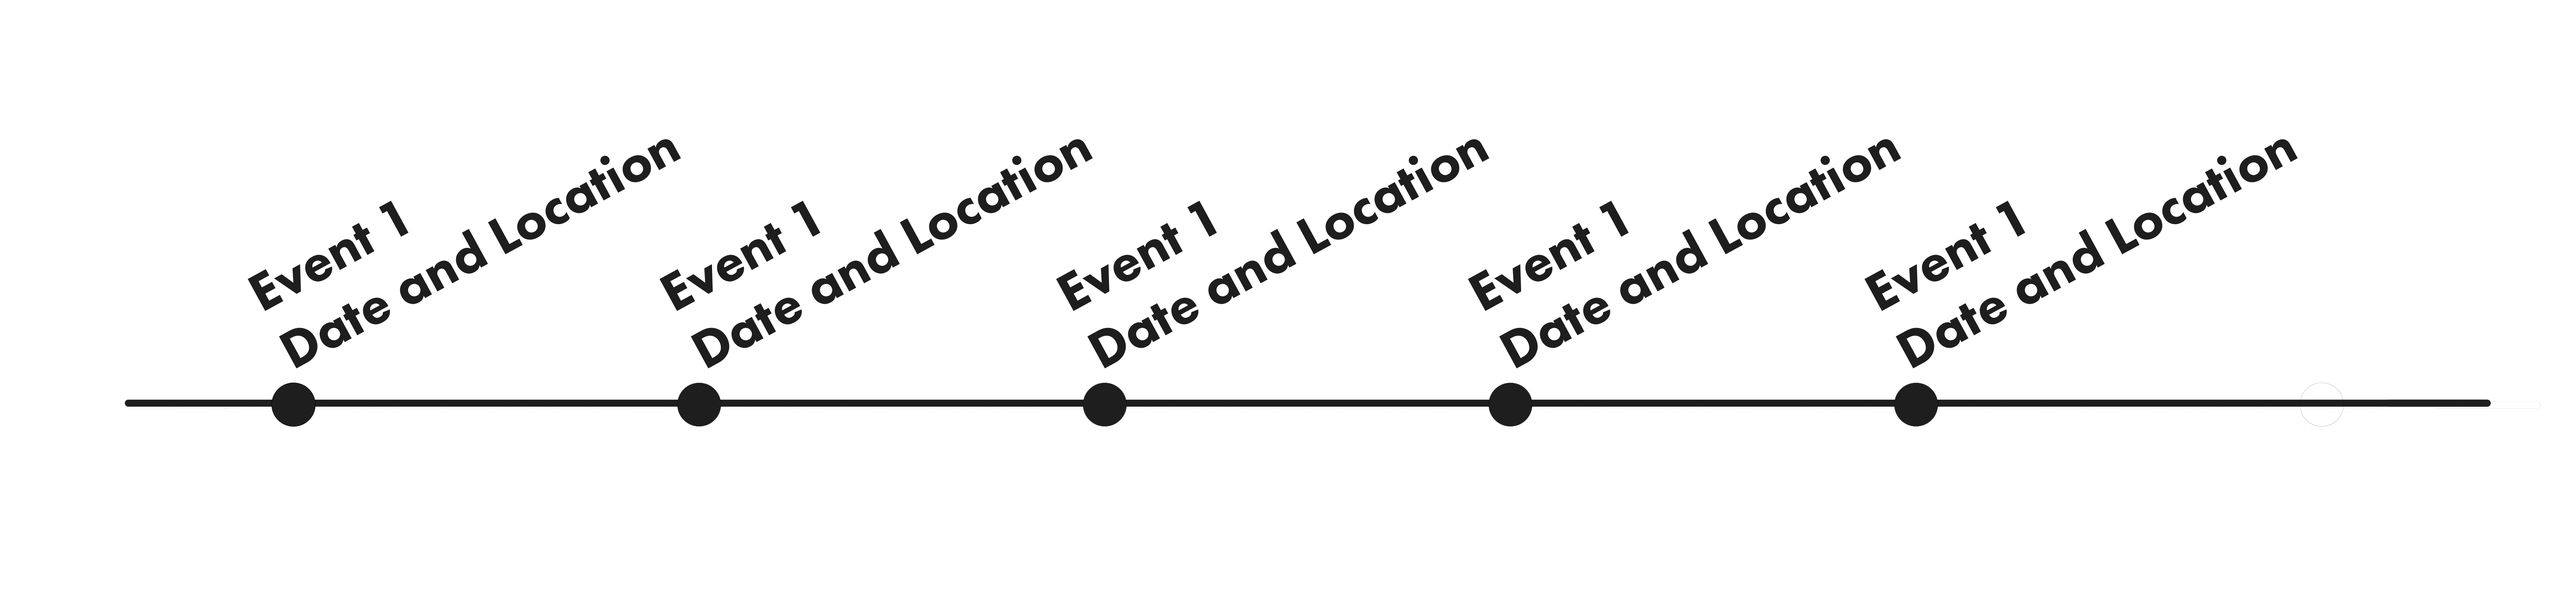
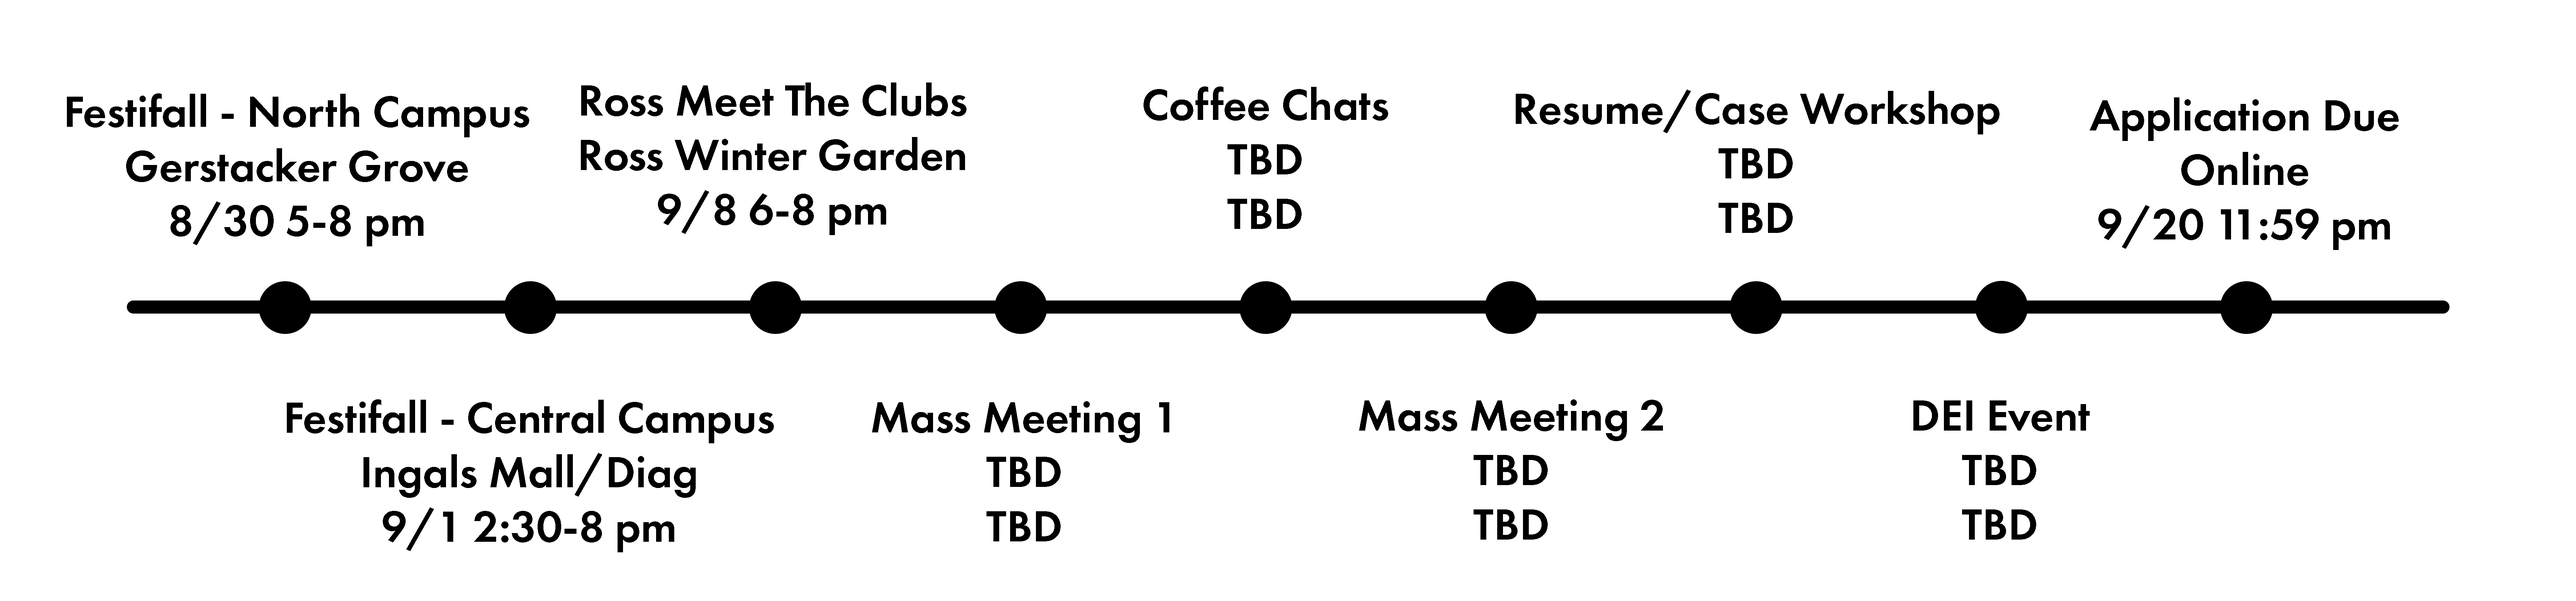
timeline update + spacing + flatlay update

diff --git a/src/Components/Projects/BusinessFlatlay.js b/src/Components/Projects/BusinessFlatlay.js
@@ -35,6 +35,7 @@ const FlatlayContainer = styled.div`
   position: relative;
   margin-bottom: 50vh;
   overflow: hidden;
+  display: flex;
 `;
 
 const FlatlayImage = styled.img`
@@ -122,7 +123,9 @@ const Spacer = styled.div`
 function BusinessFlatlay() {
 
     const [clickID, setClickID] = useState(0);
+    const [hoverId, setHoverID] = useState(0);
     const [previousID, setPreviousID] = useState(0);
+    const Names = ["YOUR CAREER","KAUFMAN INSURANCE", "WORKFORCE SOFTWARE", "FILSON CLOTHING","UNDERGROUND PRINTING","ZINGERMAN'S FOODS","MADDOG VENTURES","TREMEC ENGINEERING"]
     const Titles = ["YOU SHOULD NOT BE SEEING THIS","Kaufman: Insurance & Portfolio Management","Workforce Software: Technology and Operations","Filson: Supply Chain Management","Underground Printing: Marketing","Zingerman's: Financial Restructuring","MadDog: Technology & Venture Capital","Tremec: Global Operations"]
     const TremecText = "TREMEC is a leading manufacturer of automobile components. We worked with TREMEC's engineering and finance team to develop a method to baseline ED&D (Engineering Development and Design) for a given project and track spending over time, predicting significant variances and providing key process indicators that can aid leadership in making decisions."
     const KaufmanText = "H.W. Kaufman houses Atain Insurance, an insurance company within the Financial industry. We worked with Atain Insurance to analyze their fixed income portfolios and identify causes for differences in returns from two portfolio managers. This included analyzing compositions of the portfolios, such as maturities, credit ratings, and industries, and investigating correlations with economic events."
@@ -139,33 +142,33 @@ function BusinessFlatlay() {
       <NextSection ScrollNext={151} ScrollAlready={1050} color="black"/>
       <FlatlayContainer>
         <FlatlayImage src={background} />
-        <ObjectContainer style={{ bottom: clickID !== 0 ? (clickID === 1 ? "20vh":"-50vh" ) : "12vh", left: clickID !== 1 ? "5vh":"13vh" }} onClick={() => {clickID === 0 ? setClickID(1):setClickID(0); setPreviousID(1); }}>
+        <ObjectContainer style={{ bottom: clickID !== 0 ? (clickID === 1 ? "20vh":"-50vh" ) : "12vh", left: clickID !== 1 ? "5vh":"13vh" }} onClick={() => {clickID === 0 ? setClickID(1):setClickID(0); setPreviousID(1); }} onMouseEnter={() => {setHoverID(1)}} onMouseLeave = {() => setHoverID(0)}>
           <ObjectImage src={notebook} style={{ height: "35vh" }} />
         </ObjectContainer>
-        <ObjectContainer style={{ bottom: clickID !== 0 ? (clickID === 2 ? "20vh":"-50vh" ) : "8vh", left: clickID !== 2? "33vh":"2vh" }} onClick={() => {clickID === 0 ? setClickID(2):setClickID(0); setPreviousID(2);}}>
+        <ObjectContainer style={{ bottom: clickID !== 0 ? (clickID === 2 ? "20vh":"-50vh" ) : "8vh", left: clickID !== 2? "33vh":"2vh", zIndex:"2" }} onClick={() => {clickID === 0 ? setClickID(2):setClickID(0); setPreviousID(2);}} onMouseEnter={() => {setHoverID(2)}} onMouseLeave = {() => setHoverID(0)}>
           <ObjectImage src={laptop} style={{ height: "40vh" }} />
         </ObjectContainer>
-        <ObjectContainer style={{ bottom: clickID !== 0 ? (clickID === 3 ? "25vh":"-50vh" ) : "12vh", left: clickID !== 3? "87vh":"17vh" }} onClick={() => {clickID === 0 ? setClickID(3):setClickID(0); setPreviousID(3);}}>
+        <ObjectContainer style={{ bottom: clickID !== 0 ? (clickID === 3 ? "25vh":"-50vh" ) : "12vh", left: clickID !== 3? "87vh":"17vh" }} onClick={() => {clickID === 0 ? setClickID(3):setClickID(0); setPreviousID(3);}} onMouseEnter={() => {setHoverID(3)}} onMouseLeave = {() => setHoverID(0)}>
           <ObjectImage src={clip} style={{ height: "35vh" }} />
         </ObjectContainer>
-        <ObjectContainer style={{ bottom: clickID !== 0 ? (clickID === 4 ? "30vh":"-50vh" ) : "10vh", left: clickID !== 4? "113vh":"25vh" }} onClick={() => {clickID === 0 ? setClickID(4):setClickID(0); setPreviousID(4);}}>
+        <ObjectContainer style={{ bottom: clickID !== 0 ? (clickID === 4 ? "30vh":"-50vh" ) : "10vh", left: clickID !== 4? "113vh":"25vh" }} onClick={() => {clickID === 0 ? setClickID(4):setClickID(0); setPreviousID(4);}} onMouseEnter={() => {setHoverID(4)}} onMouseLeave = {() => setHoverID(0)}>
           <ObjectImage src={phone} style={{ height: "20vh" }} />
         </ObjectContainer>
-        <ObjectContainer style={{ bottom: clickID !== 5 ? "30vh":"30vh", left: clickID !== 0? (clickID === 5 ? "20vh":"130vh" ) :"110vh" }} onClick={() => {clickID === 0 ? setClickID(5):setClickID(0); setPreviousID(5);}}>
+        <ObjectContainer style={{ bottom: clickID !== 5 ? "30vh":"30vh", left: clickID !== 0? (clickID === 5 ? "20vh":"130vh" ) :"110vh" }} onClick={() => {clickID === 0 ? setClickID(5):setClickID(0); setPreviousID(5);}} onMouseEnter={() => {setHoverID(5)}} onMouseLeave = {() => setHoverID(0)}>
           <ObjectImage src={cup} style={{ height: "17vh" }} />
         </ObjectContainer>
-        <ObjectContainer style={{ bottom: clickID !== 0 ? (clickID === 6 ? "25vh":"80vh" ) : "45vh", left: clickID !== 6? "87vh":"10vh" }} onClick={() => {clickID === 0 ? setClickID(6):setClickID(0); setPreviousID(6);}}>
+        <ObjectContainer style={{ bottom: clickID !== 0 ? (clickID === 6 ? "25vh":"80vh" ) : "45vh", left: clickID !== 6? "87vh":"10vh" }} onClick={() => {clickID === 0 ? setClickID(6):setClickID(0); setPreviousID(6);}} onMouseEnter={() => {setHoverID(6)}} onMouseLeave = {() => setHoverID(0)}>
           <ObjectImage src={bcase} style={{ height: "30vh" }} />
         </ObjectContainer>
-        <ObjectContainer style={{ bottom: clickID !== 0 ? (clickID === 7 ? "25vh":"80vh" ) : "47vh", left: clickID !== 7? "40vh":"7vh" }} onClick={() => {clickID === 0 ? setClickID(7):setClickID(0); setPreviousID(7);}}>
+        <ObjectContainer style={{ bottom: clickID !== 0 ? (clickID === 7 ? "25vh":"80vh" ) : "47vh", left: clickID !== 7? "40vh":"7vh" }} onClick={() => {clickID === 0 ? setClickID(7):setClickID(0); setPreviousID(7);}} onMouseEnter={() => {setHoverID(7)}} onMouseLeave = {() => setHoverID(0)}>
           <ObjectImage src={map} style={{ height: "30vh" }} />
         </ObjectContainer>
         <ObjectContainer style={{ bottom: clickID !== 0 ? "80vh" : "50vh", left: "10vh"}}>
           <img src={plant} style={{ height: "20vh" }} />
         </ObjectContainer>
-        <ObjectContainer style={{ bottom: clickID === 0 ? "3vh" : "-50vh", left: "30vh"}}>
+        <ObjectContainer style={{ bottom: clickID === 0 ? "3vh" : "-50vh", left: "50%",transform: "translateX(-50%)", whiteSpace:"nowrap"}}>
           <TextContainer>
-              <TitleText style={{textAlign:"center", fontSize:"5vh", lineHeight:"90%"}}> <span style={{fontSize:"2.5vh"}}>Click an object to see how we can create</span><br/> IMPACT FOR <span style={{color: "#5A4FCF"}}> YOUR CAREER </span> </TitleText>
+              <TitleText style={{textAlign:"center", fontSize:"5vh", lineHeight:"90%"}}> <span style={{fontSize:"2.5vh"}}>Click an object to see how we create</span><br/> IMPACT FOR <span style={{color: "#5A4FCF"}}> {Names[hoverId]} </span> </TitleText>
           </TextContainer>
         </ObjectContainer>
         <InfoContainer style={{ opacity: clickID !== 0 ? "1":"0", transitionDelay: clickID !==0 ? ".5s":"0s", transitionDuration: clickID !==0 ? ".5s":".25s"}}>

diff --git a/src/Components/Projects/UmichFlatlay.js b/src/Components/Projects/UmichFlatlay.js
@@ -134,15 +134,14 @@ function UmichFlatlay() {
 
   const [clickID1, setClickID1] = useState(0);
   const [previousID1, setPreviousID1] = useState(0);
-  const Titles = ["YOU SHOULD NOT BE SEEING THIS","UM Intermurals","Michigan Online","UM Basketball","M&B Cupboard","UM Football & Big House","MCity Test Facility"]
-  const sample = "Lorem ipsum dolor sit amet, consectetur adipiscing elit, sed do eiusmod tempor incididunt ut labore et dolore magna aliqua. Ut enim ad minim veniam, quis nostrud exercitation ullamco laboris nisi ut aliquip ex ea commodo consequat. Duis aute irure dolor in reprehenderit in voluptate velit esse cillum dolore eu fugiat nulla pariatur."
+  const Titles = ["YOU SHOULD NOT BE SEEING THIS","UM Intramurals","Michigan Online","UM Basketball","M&B Cupboard","UM Football & Big House","MCity Test Facility"]
   const BasketballText = "We were approached by UM Athletics to increase student section attendance at Michigan Basketball games. In order to do this we suggested a streamlined version of their ticket claiming process, instituting various stadium promotions, and creating partnerships with other student organizations. "
   const MBCText = 'The Maize & Blue Cupboard is a resource for students with food insecurity. Our team was tasked with transforming this cupboard into a "No Wrong Doors" initiative in which The Maize & Blue Cupboard becomes a one-stop shop for students in need. We also developed a marketing strategy to ensure that this resource is utilized by students'
-  const FootballText = "We were asked by UM Athletics to creatie a pricing model to generate additional revenue growth for Michigan Football tickets. The project focused on creating a new ticket pricing framework, identifying helpful customer segments, and introducing incentive programs to drive ticket sales."
+  const FootballText = "We were asked by UM Athletics to create a pricing model to generate additional revenue growth for Michigan Football tickets. The project focused on creating a new ticket pricing framework, identifying helpful customer segments, and introducing incentive programs to drive ticket sales."
   const MCityText = "MCity is Umich's connected and automated (CAV) research group. We conducted a gap analysis of technical and non-technical challenges in the CAV space and identify the overarching challenges so MCity research priorities can be decided. We did this by researching CAV databases, interviews, and other CAV research groups."
-  const IntermuralText = "We worked with the intermural building to create a more efficient training program for their employees by identifying when and how they train. We also looked at their marketing and focused on ways we could imporve diversity and number of people using the facilities, all while keeping costs under control."
+  const IntramuralText = "We worked with the intramural building to create a more efficient training program for their employees by identifying when and how they train. We also looked at their marketing and focused on ways we could improve diversity and number of people using the facilities, all while keeping costs under control."
   const MichiganOnlineText = "Michigan Online is a UM organization that focuses on giving an online and self-paced learning experience with their library of virtual classes. Our team was tasked with transforming the platform into something that is more widely used by students. We analyzed content, marketing, and accessibility to propose solutions."
-  const Body = ["YOU SHOULD NOT BE SEEING THIS",IntermuralText,MichiganOnlineText,BasketballText,MBCText,FootballText,MCityText]
+  const Body = ["YOU SHOULD NOT BE SEEING THIS",IntramuralText,MichiganOnlineText,BasketballText,MBCText,FootballText,MCityText]
 
   return (
     <ProjectContainer>

diff --git a/src/Components/Application/MenuSection.js b/src/Components/Application/MenuSection.js
@@ -1,6 +1,7 @@
 import styled from "styled-components";
 import timeline from "../../Images/Application/timeline.png"
 import coffee from "../../Images/Application/coffee.png"
+import north from "../../Images/Application/north.png"
 
 const SectionContainer = styled.div`
   width: 100vw;
@@ -59,7 +60,7 @@ const InfoContainer = styled.div`
     outline: solid 3px #1e1e1e;
     margin: 1.5px;
     display: flex;
-    align-items: flex-start;
+    align-items: center;
     justify-content: center;
     position: relative;
 `
@@ -91,11 +92,19 @@ const MoreContainer = styled.div`
     height:27vh;
     outline: solid 3px #1e1e1e;
     margin-top: .75px;
+    display: flex;
+    align-items: center;
+    justify-content: center;
 `
 
 const TextContainer = styled.div`
     display: inline-block;
-    margin: 20px;
+    margin-left: 2vw;
+    margin-right: 2vw;
+    display: flex;
+    height: 80%;
+    flex-direction: column;
+    justify-content: space-evenly;
 `
 
 const TitleText = styled.h1`
@@ -122,7 +131,7 @@ const HeaderText = styled.h1`
 
 const BodyText = styled.p`
   display: inline-block;
-  font-size: calc(.9vmax + .9vmin);
+  font-size: calc(2.7vmin);
   font-family: futura-pt, Helvetica, sans-serif;
   margin: 0;
   padding: 0;
@@ -137,8 +146,10 @@ const SmallSpacer = styled.div`
 
 const ImageContainer = styled.div`
     width:100%;
-    height: 30vh;
-    background-image: url(${coffee});
+    height: 25vh;
+    margin-top: 2vh;
+    margin-bottom: 2vh;
+    background-image: url(${north});
     background-size: contain;
     background-repeat: no-repeat;
     background-position: center;
@@ -167,9 +178,6 @@ function MenuSection() {
                 </TextContainer>
             </LogoContainer>
             <TimelineContainer>
-                <SoonContainer>
-                    <TitleText style={{color: "white"}}>Coming Soon</TitleText>
-                </SoonContainer>
             </TimelineContainer>
             <NewLine/>
             <InfoContainer>
@@ -199,14 +207,11 @@ function MenuSection() {
                 </MoreContainer>
             </CenterContainer>
             <InfoContainer>
-                <SoonContainer style={{height:"25%", width:"100%", left: "0%", top:"35%"}}>
-                    <TitleText style={{color: "white"}}>Coming Soon</TitleText>
-                </SoonContainer>
                 <TextContainer>
                     <TitleText style={{textAlign: "center"}}>Next Event</TitleText>
                     <ImageContainer/>
-                    <HeaderText style={{textAlign: "center"}}>Coffee Chats #1</HeaderText>
-                    <HeaderText style={{textAlign: "center"}}>Date and Location</HeaderText>
+                    <HeaderText style={{textAlign: "center", width: "100%"}}>Festifall North</HeaderText>
+                    <BodyText style={{textAlign: "center", width: "100%"}}> Gerstacker Grove <br/> 8/30 at 5-8 pm </BodyText>
                 </TextContainer>
             </InfoContainer>
             <NewLine/>

diff --git a/src/Components/General/WebButton.js b/src/Components/General/WebButton.js
@@ -41,7 +41,7 @@ const ButtonContainer = styled.div`
   }
 `;
 
-const TextContaier = styled.div`
+const TextContainer = styled.div`
   margin-left: 1vmax;
 `;
 
@@ -77,11 +77,11 @@ function WebButton(props) {
         <IconContainer>
           <BsGlobe color={"#1e1e1e"} />
         </IconContainer>
-        <TextContaier>
+        <TextContainer>
           <TitleText style={{ color: "#1e1e1e" }}>
             This Website is Member Made Learn More
           </TitleText>
-        </TextContaier>
+        </TextContainer>
       </ButtonContainer>
     </Link>
   );

diff --git a/src/index.js b/src/index.js
@@ -36,9 +36,11 @@ ReactDOM.render(
         <Route path="/" element={<App />} />
         <Route path="/projects" element={<Projects />} />
         <Route path="/about" element={<About />} />
+        <Route path="/about-us" element={<About />} />
         <Route path="/BDT" element={<BDT />} />
         <Route path="/team" element={<Team />} />
         <Route path="/application" element={<Application/>} />
+        <Route path="/applicants" element={<Application/>} />
         <Route path="*" element={<PageNotFound/>} />
       </Routes>
     </BrowserRouter>
